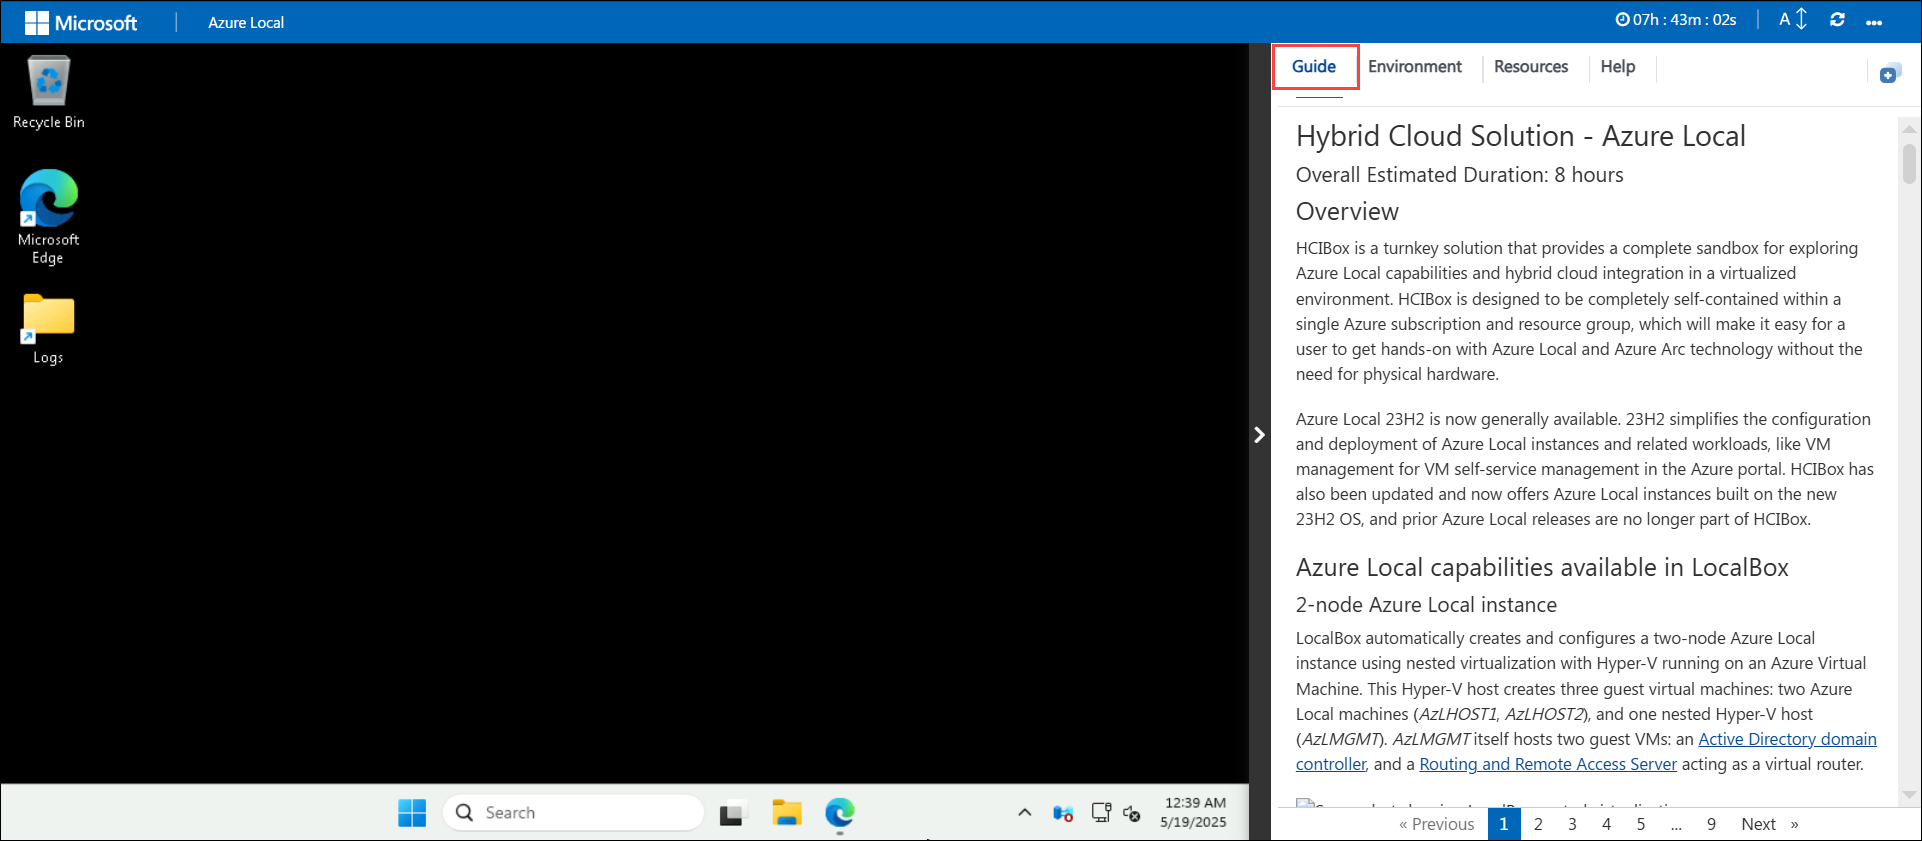
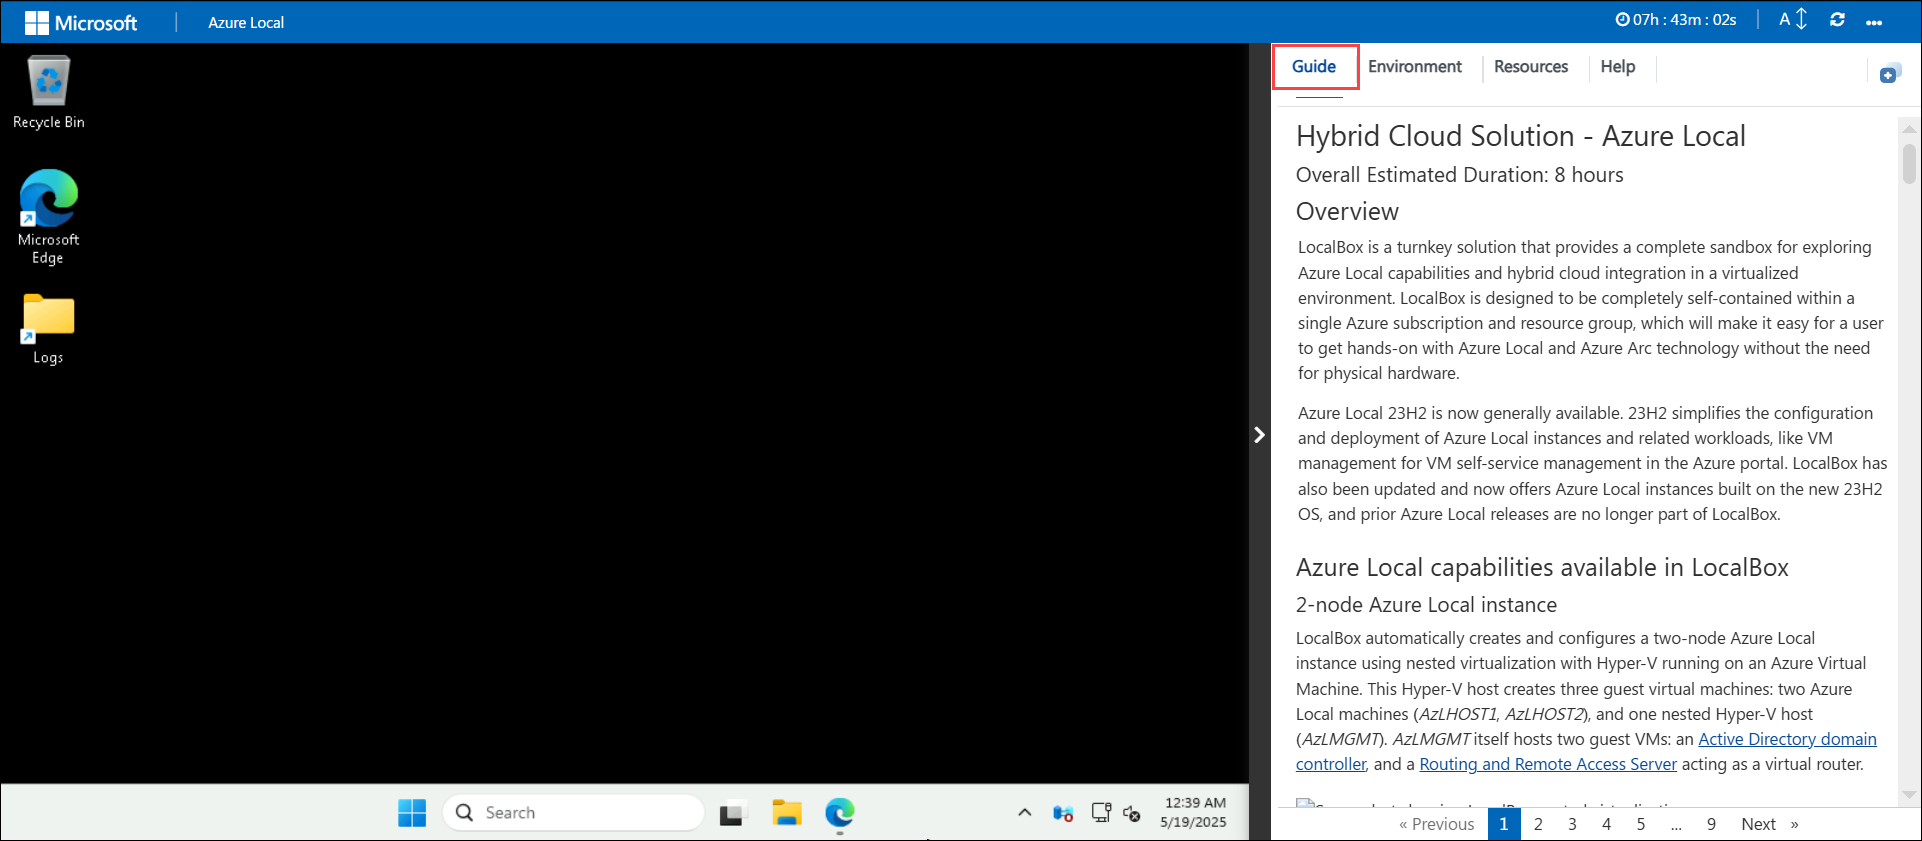
Updated

Changed region(s): [[0.6556, 0.2782, 0.999, 0.6492]]

diff --git a/HOL-4-azure-stack-hci/hci-eternal-hol2-ex4.md b/HOL-4-azure-stack-hci/hci-eternal-hol2-ex4.md
@@ -14,6 +14,8 @@ You will be able to complete the following tasks:
 
 ## Task 1: Create a Logical Network for Azure Local VM
 
+In this task, you will create a logical network in the localboxcluster to enable VM connectivity with defined IP ranges, VLAN, DNS, and gateway.
+
 1. On the **Azure portal**, in search bar type **Resource groups (1)** and select **Resource groups (2)** under the services. 
 
     ![](media/Ex3-0.png)
@@ -59,6 +61,8 @@ You will be able to complete the following tasks:
 
 ## Task 2: Download and Add the VM image to Azure Local Storage
 
+In this task, you will download a Windows 10 Enterprise multi-session VM image from the Azure Marketplace and stored it in Azure Local.
+
 1. In the **localboxcluster** Azure Local, from the left menu select **VM images** **(1)** under **Resources**, click on **+ Add VM Image** **(2)**, and click on **From Azure Marketplace** **(3)**.
 
     ![](media/NewEx3-3.png)
@@ -86,6 +90,8 @@ You will be able to complete the following tasks:
 1. Now, you can move to the next task of creating the Virtual Machine on Azure Local.
 
 ## Task 3: Create a Virtual Machine on Azure Local
+
+In this task, you will provision a new VM in the localboxcluster using the logical network and VM image configured in the previous tasks.
 
 1. In the **localboxcluster** Azure Local, from the left menu select **Virtual machines (1)** under Resources, then click on **+ Create VM (2)**.
 
@@ -148,7 +154,7 @@ You will be able to complete the following tasks:
 
 ## Summary
 
-In this exercise, you created a Logical Network for Azure Local VM, downloaded and added the VM image to Azure Local Storage, and created a Virtual Machine on Azure Local.
+In this exercise, you created the complete environment for running a VM in Azure Local. You created a logical network, added a Windows 10 Enterprise VM image from the Azure Marketplace, and deployed a fully configured virtual machine. This demonstrated the end-to-end process of preparing, networking, and provisioning compute resources in Azure Local.
 
 ### You have successfully completed the lab. Click on Next >> to proceed with the next exercise.
 

diff --git a/HOL-4-azure-stack-hci/hci-eternal-hol2-ex5.md b/HOL-4-azure-stack-hci/hci-eternal-hol2-ex5.md
@@ -12,6 +12,8 @@ You will be able to complete the following task:
 
 ## Task 1: Update Azure Local  
 
+In this task, you wil perform updates on the localboxcluster Azure Local resource using the Azure portal. The process involves verifying resources, selecting updates, and installing them via the Update Manager.
+
 1. On the **Azure portal**, in search bar type **Resource groups (1)** and select **Resource groups (2)** under the services. 
 
    ![](media/Ex3-0.png)
@@ -52,11 +54,9 @@ You will be able to complete the following task:
 
 ## Summary
 
-In this exercise, you updated the **localboxcluster** Azure Local resource.
+In this exercise, you successfully updated the **localboxcluster** Azure Local cluster through the Azure portal. The update process ensured the system was brought to the latest version, and the final status showed Up to date with Healthy readiness.
 
 ### You have successfully completed the lab!
-
-## Conclusion
 
 By completing the **Hybrid Cloud Solution - Azure Local** Hands-On lab, you have successfully  gained practical experience with the key stages of working with **Azure Local** in a hybrid cloud setup. Beginning with the prerequisite environment configuration, you moved through deployment in the Azure portal, virtual machine provisioning, and container orchestration using **AKS on Azure Local**. Finally, you explored how to manage updates within Azure Local directly from the Azure portal. By completing all exercises, you now have a solid understanding of how Azure Local integrates with Azure services, supports VM and container workloads, and provides centralized management and update capabilities. This hands-on experience highlights how Azure Local extends the Azure control plane into on-premises or edge environments, enabling consistent hybrid cloud operations.
 

diff --git a/HOL-4-azure-stack-hci/hci-eternal-hol2-ex3.md b/HOL-4-azure-stack-hci/hci-eternal-hol2-ex3.md
@@ -15,6 +15,8 @@ You will be able to complete the following tasks:
 
 ## Task 1: Create a Logical Network for Azure Local for AKS
 
+In this task, you will create a logical network in the localboxcluster to provide IP addressing, VLAN, and gateway configuration for AKS deployment.
+
 1. On the **Azure portal**, in search bar type **Resource groups (1)** and select **Resource groups (2)** under the services. 
 
    ![](media/Ex3-0.png)
@@ -61,6 +63,8 @@ You will be able to complete the following tasks:
 
 ## Task 2: Create an Entra Group for authentication of AKS
 
+In this task, you will configure an Entra ID group to manage authentication and authorization for AKS.
+
 1. In the Azure portal, click on the search blade at the top and search for **Microsoft Entra ID (1)** and select **Microsoft Entra ID (2)**.
 
     ![](./media/Ex2-3.png)
@@ -78,6 +82,8 @@ You will be able to complete the following tasks:
     ![](media/newgroupcreate.png)
 
 ## Task 3: Create AKS on Azure Local using Azure Portal
+
+In this task, you will deploy an AKS cluster on Azure Local with Entra-based RBAC authentication and network integration.
 
 1. In the Azure portal, click on the search blade at the top and search for **Kubernetes services (1)** and select **Kubernetes services (2)**.
 
@@ -125,6 +131,8 @@ You will be able to complete the following tasks:
      ![](media/Ex4-3.png)
     
 ## Task 4: Connecting to the Azure Local AKS
+
+In this task, you will connect to the newly created AKS cluster from the Localbox-Client VM using Azure CLI and kubectl.
 
 1. From your Localbox-Client VM, open PowerShell and run the following command, using the name of your localBox resource group.
 

diff --git a/HOL-4-azure-stack-hci/hci-eternal-hol1-ex1.md b/HOL-4-azure-stack-hci/hci-eternal-hol1-ex1.md
@@ -15,6 +15,8 @@ You will be able to complete the following tasks:
 
 ## Task 1: Review the configured virtualized Azure Local VMs 
 
+In this task, you will use Hyper-V Manager on the Localbox-Client VM to review the status of the deployed Azure Local virtual machines.
+
 1. In the Localbox-Client VM, search for **Hyper-V Manager (1)** in the search box. Select **Hyper-V Manager (2)**.
 
    ![](./media/hci24-1a.png)
@@ -24,6 +26,8 @@ You will be able to complete the following tasks:
    ![](./media/ex1.png)
 
 ## Task 2: Onboard Azure Arc Machine to Azure and prepare to deploy Azure Local 
+
+In this task, you will review the process of onboarding Azure Local hosts to Azure Arc using PowerShell and verify the registered Arc machines.
 
 1. In the Windows search bar, type **PowerShell ISE** **(1)**, and select Windows **PowerShell ISE** **(2)** to open it from the Lab VM.
 

diff --git a/HOL-4-azure-stack-hci/hci-eternal-hol1-ex2.md b/HOL-4-azure-stack-hci/hci-eternal-hol1-ex2.md
@@ -14,6 +14,8 @@ You will be able to complete the following tasks:
 
 ## Task 1: Review the already generated ARM template
 
+In this task, you will review the pre-generated ARM template and parameter files for Azure Local in VS Code, and assign the Azure Arc permission to the Azure Local resource provider.
+
 1. In the Localbox-Client VM searchbar, type **VS Code (1)**, then click on **Visual Studio Code (2)** from the results.
 
     ![](./media/Ex2-11.png)
@@ -79,6 +81,8 @@ You will be able to complete the following tasks:
 
     
 ## Task 2: Validate and deploy the Azure Local using PowerShell
+
+In this task, you will validate and deploy the Azure Local cluster using PowerShell with the pre-configured ARM template and parameter files.
 
 1. Open PowerShell ISE window and run the below command to validate your Azure Local deployment and cluster.
 
